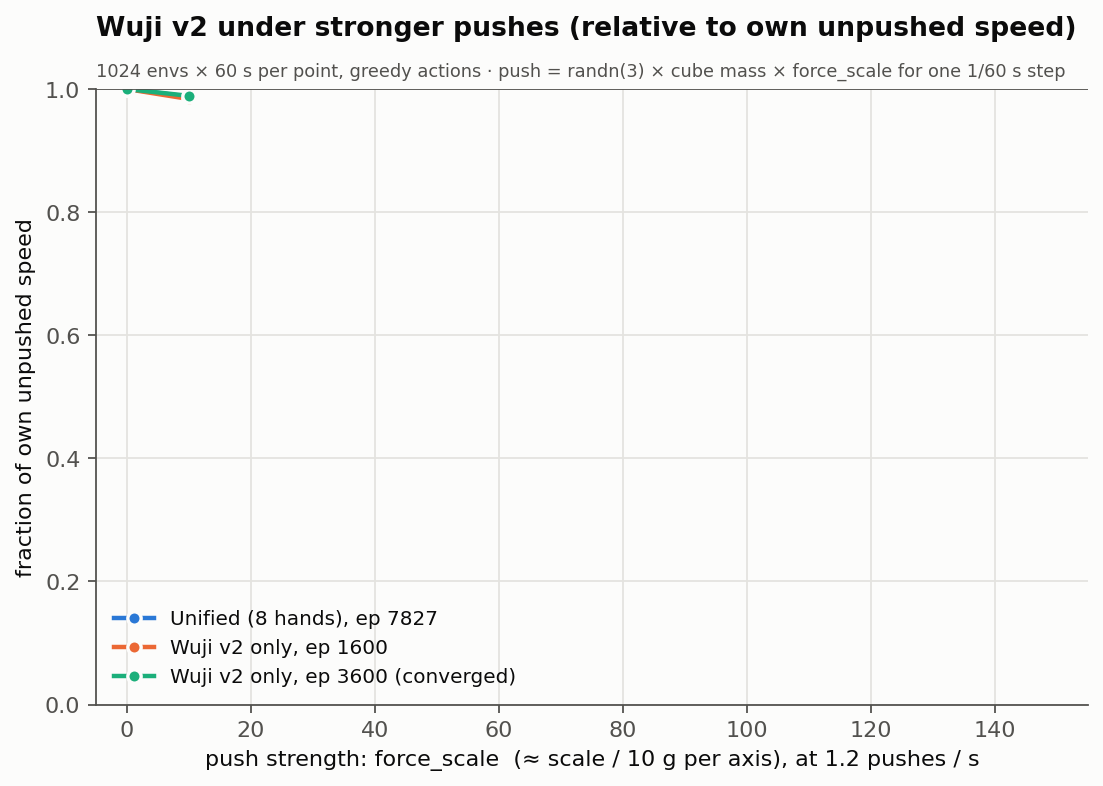
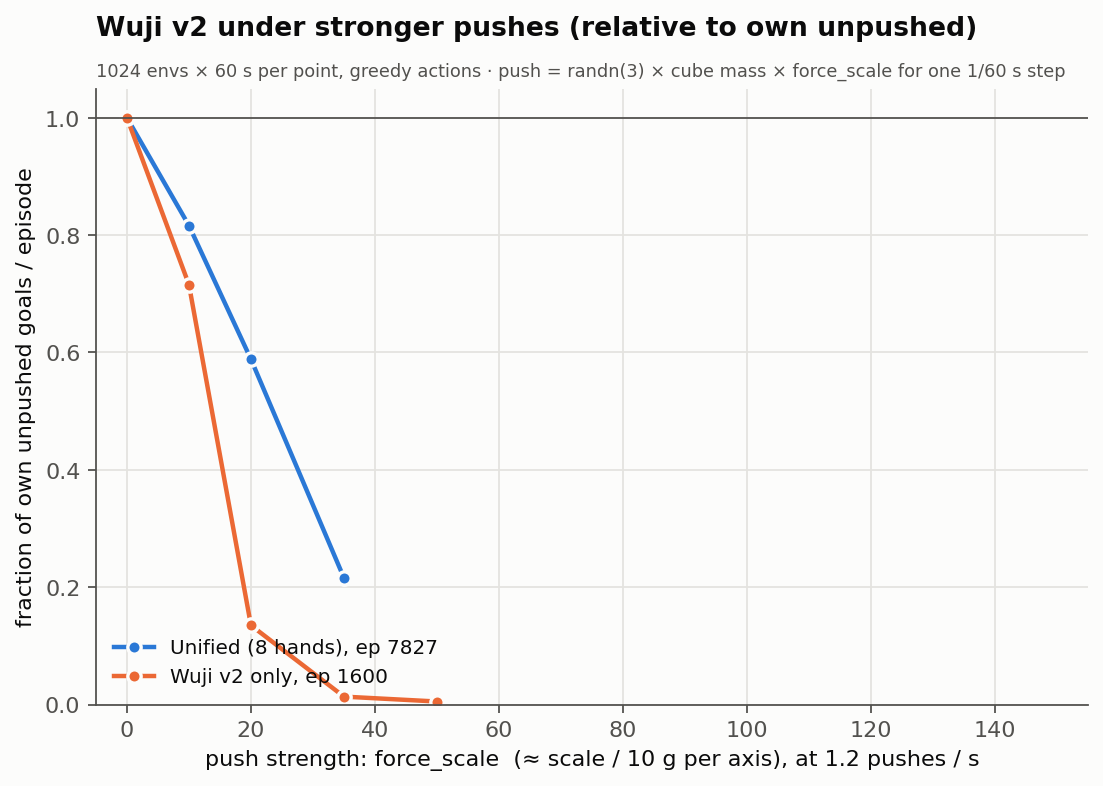
Push sweeps in the training metric: eval_niches --max-goals (50) with goals per episode over each env's first episode; capped sweeps (240 s/point, strength at 0.03/step) for unified ep 7827 / final and Wuji-only ep 1600 / 3600; plots per comparison
Claude-Session: https://claude.ai/code/session_01VEjfLD7vkNCwPYPC2HsL71

diff --git a/experiments/01oct_embodiment_niches/eval_niches.py b/experiments/01oct_embodiment_niches/eval_niches.py
@@ -106,6 +106,9 @@ def main() -> None:
     ap.add_argument("--override", action="append", default=[],
                     help="extra env setting applied after the condition, dotted.path=python_literal "
                          "(e.g. domain_randomization.force_scale=80.0); repeatable")
+    ap.add_argument("--max-goals", type=int, default=0,
+                    help="end an episode at this many goals, as training does (50); 0 = uncapped. With a cap the "
+                         "result carries goals_per_episode, the training metric: goals per COMPLETED episode")
     ap.add_argument("--out", required=True)
     ap.add_argument("--device", default="cuda:0")
     args = ap.parse_args()
@@ -161,7 +164,7 @@ def main() -> None:
         env_cfg.from_dict(env_d)
         env_cfg.scene.num_envs = args.num_envs
         env_cfg.seed = args.seed
-        env_cfg.termination.max_consecutive_successes = 0
+        env_cfg.termination.max_consecutive_successes = args.max_goals
         for path, val in CONDITIONS[args.condition][1]:
             if isinstance(val, str) and val.startswith("x"):        # relative to the trained value
                 *head, leaf = path.split(".")
@@ -221,6 +224,10 @@ def main() -> None:
         prev_qd = inner.robot.data.joint_vel[:, jid].clone()
         prev_tgt = inner._cur_targets[:, jid].clone()
         n_succ = n_fall = n_tout = n_far = 0
+        ep_done = ep_goals = n_capped = 0           # completed episodes, their goals, how many hit the cap
+        # Each env's FIRST episode: every env starts at reset together, so this sample is not biased toward
+        # short episodes the way "every episode that ended inside the window" is.
+        first_goals = torch.full((N,), -1, dtype=torch.long, device=dev)
         t0 = time.time()
         for k in range(steps):
             with torch.no_grad():
@@ -257,7 +264,8 @@ def main() -> None:
             succ = inner._is_success.bool()
             r = inner._termination_reasons
             fall, tout, far = r["fall"].bool(), r["timeout"].bool(), r["hand_far"].bool()
-            ended = fall | tout | far
+            capped = r["max_successes"].bool()
+            ended = fall | tout | far | capped
             th_now = angle_now().double()
             if succ.any():
                 i = succ.nonzero().squeeze(-1)
@@ -274,6 +282,11 @@ def main() -> None:
                 i = ended.nonzero().squeeze(-1)
                 # Only a drop is the failure; a timeout or hand_far ends the episode without one.
                 streak_rec.append(torch.stack([streak[i], fall[i].long()], -1).cpu())
+                ep_done += int(i.numel())
+                fresh = i[first_goals[i] < 0]
+                first_goals[fresh] = streak[fresh]
+                ep_goals += int(streak[i].sum())
+                n_capped += int(capped[i].sum())
                 streak = torch.where(ended, torch.zeros_like(streak), streak)
             new = succ | ended
             if new.any():
@@ -314,6 +327,14 @@ def main() -> None:
             "drops_per_min": 60.0 * n_fall / env_s,
             "timeouts_per_min": 60.0 * n_tout / env_s,
             "goals_per_drop": n_succ / max(n_fall, 1),
+            # The training metric under --max-goals: goals per episode, over episodes that ENDED inside the run
+            # (drop, 10 s without a goal, or the cap). Episodes still running at the end are not counted.
+            "max_goals": args.max_goals,
+            "goals_per_episode": ep_goals / ep_done if ep_done else float("nan"),
+            "episodes_completed": ep_done, "episodes_capped": n_capped,
+            "goals_per_episode_first": (float(first_goals[first_goals >= 0].double().mean())
+                                        if (first_goals >= 0).any() else float("nan")),
+            "first_episode_unfinished_frac": float((first_goals < 0).double().mean()),
             "counts": {"goals": n_succ, "drops": n_fall, "timeouts": n_tout, "hand_far": n_far},
             "time_per_goal_s": _summ(mid[:, 0]),
             "first_goal_after_reset_s": _summ(first[:, 0]),

diff --git a/experiments/02oct_ood_evals/analysis/plot_push_sweep.py b/experiments/02oct_ood_evals/analysis/plot_push_sweep.py
@@ -21,10 +21,11 @@ HERE = pathlib.Path(__file__).resolve().parent.parent
 R = HERE / "results/push_sweep"
 OUT = HERE / "plots/push_sweep"
 SURFACE, INK, INK2, GRID = "#fcfcfb", "#0b0b0b", "#52514e", "#e4e3df"
-POLICIES = [("Unified (8 hands), ep 7827", "unified_ep_7827", "#2a78d6"),
-            ("Wuji v2 only, ep 1600", "wuji_only_ep_1600", "#eb6834"),
-            ("Wuji v2 only, ep 3600 (converged)", "wuji_only_ep_3600", "#1baf7a"),
-            ("Unified (8 hands), final ep 10000", "unified_final", "#eda100")]
+# The latest unified policy against the Wuji-only checkpoint nearest it in skill. The final unified checkpoint
+# replaces ep 7827 as soon as its sweep has results.
+_LATEST = ("Unified (8 hands), final ep 10000", "unified_final") if (R / "unified_final").exists() and any(
+    (R / "unified_final").iterdir()) else ("Unified (8 hands), ep 7827", "unified_ep_7827")
+POLICIES = [(*_LATEST, "#2a78d6"), ("Wuji v2 only, ep 1600", "wuji_only_ep_1600", "#eb6834")]
 SCALES = [0, 10, 20, 35, 50, 75, 100, 150]
 PROBS = [0.005, 0.01, 0.02, 0.05, 0.1, 0.2]
 AXES = {
@@ -35,9 +36,16 @@ AXES = {
 }
 
 
+def goals_per_episode(r: dict) -> float:
+    """Goals per episode from an eval: goals/min over episodes/min. With max_consecutive_successes off, an
+    episode ends only in a drop or a timeout."""
+    eps = r["drops_per_min"] + r["timeouts_per_min"]
+    return r["goals_per_min"] / eps if eps else float("nan")
+
+
 def gpm(label, axis, v):
     f = R / label / f"{axis}_{v}.json"
-    return json.loads(f.read_text())["goals_per_min"] if f.exists() else np.nan
+    return goals_per_episode(json.loads(f.read_text())) if f.exists() else np.nan
 
 
 def plot(name, relative):
@@ -69,9 +77,9 @@ def plot(name, relative):
         ax.spines[s].set_color(INK2)
     ax.tick_params(colors=INK2)
     ax.set_xlabel(xlabel, color=INK, fontsize=10)
-    ax.set_ylabel("fraction of own unpushed speed" if relative else "goals / min", color=INK, fontsize=10)
+    ax.set_ylabel("fraction of own unpushed goals / episode" if relative else "goals / episode", color=INK, fontsize=10)
     ax.legend(frameon=False, fontsize=9, labelcolor=INK, loc="lower left")
-    ax.set_title(title + (" (relative to own unpushed speed)" if relative else ""), loc="left", fontsize=12,
+    ax.set_title(title + (" (relative to own unpushed)" if relative else ""), loc="left", fontsize=12,
                  fontweight="bold", color=INK, pad=24)
     ax.text(0, 1.02, "1024 envs × 60 s per point, greedy actions · push = randn(3) × cube mass × force_scale "
             "for one 1/60 s step", transform=ax.transAxes, fontsize=8, color=INK2)
@@ -87,8 +95,8 @@ def main():
         for rel in (False, True):
             print("->", plot(name, rel))
     for txt, label, _ in POLICIES:
-        print(f"  {txt:36s} scale: " + " ".join(f"{gpm(label, 'scale', v):.1f}" for v in SCALES)
-              + " | prob: " + " ".join(f"{gpm(label, 'prob', v):.1f}" for v in PROBS))
+        print(f"  {txt:36s} scale: " + " ".join(f"{gpm(label, 'scale', v):.2f}" for v in SCALES)
+              + " | prob: " + " ".join(f"{gpm(label, 'prob', v):.2f}" for v in PROBS))
 
 
 if __name__ == "__main__":

diff --git a/experiments/02oct_ood_evals/analysis/plot_wuji_compare.py b/experiments/02oct_ood_evals/analysis/plot_wuji_compare.py
@@ -26,11 +26,18 @@ CONDS = [("nominal", "nominal\n(train)"), ("cube40", "cube\n40 mm"), ("cube55", 
          ("slippery", "slippery\n(×0.5 μ)"), ("push", "push"), ("push_hard", "hard\npush")]
 
 
+def goals_per_episode(r: dict) -> float:
+    """Goals per episode from an eval: goals/min over episodes/min. With max_consecutive_successes off, an
+    episode ends only in a drop or a timeout."""
+    eps = r["drops_per_min"] + r["timeouts_per_min"]
+    return r["goals_per_min"] / eps if eps else float("nan")
+
+
 def load(d):
     out = {}
     for c, _ in CONDS:
         f = RES / d / f"wuji2__{c}.json"
-        out[c] = json.loads(f.read_text())["goals_per_min"] if f.exists() else np.nan
+        out[c] = goals_per_episode(json.loads(f.read_text())) if f.exists() else np.nan
     return out
 
 
@@ -53,7 +60,7 @@ def main():
             ax.bar(xs, y, w * 0.92, color=SERIES[i], label=label, edgecolor=SURFACE, linewidth=1.5, zorder=3)
             for xi, yi in zip(xs, y):
                 if np.isfinite(yi):
-                    ax.text(xi, yi, f"{yi:.2f}" if rel else f"{yi:.0f}", ha="center", va="bottom",
+                    ax.text(xi, yi, f"{yi:.2f}" if rel else f"{yi:.1f}", ha="center", va="bottom",
                             fontsize=7.5, color=INK2)
                 else:
                     ax.text(xi, 0, "pending", ha="center", va="bottom", fontsize=7, color=INK2, rotation=90)
@@ -68,12 +75,12 @@ def main():
         ax.text(x[1:].mean(), top * 1.02, "out-of-distribution", ha="center", va="bottom", fontsize=9, color=INK)
         if rel:
             ax.axhline(1.0, color=INK2, linewidth=0.8)
-        ax.set_ylabel("fraction of own nominal" if rel else "goals / min", color=INK, fontsize=10)
+        ax.set_ylabel("fraction of own nominal goals / episode" if rel else "goals / episode", color=INK, fontsize=10)
         ax.set_xticks(x, [lab for _, lab in CONDS], fontsize=9, color=INK)
         ax.legend(frameon=False, fontsize=9, ncol=len(data), loc="lower left", bbox_to_anchor=(0.0, 1.09),
                   labelcolor=INK)
         ax.set_title("Wuji v2: unified vs Wuji-only policy" + (", relative to own nominal (1.0 = no loss)"
-                     if rel else ", goals per minute"), loc="left", fontsize=12, fontweight="bold", color=INK,
+                     if rel else ", goals per episode"), loc="left", fontsize=12, fontweight="bold", color=INK,
                      pad=48)
         fig.text(0.125, -0.02, "1024 envs × 60 s per condition, greedy actions", fontsize=8, color=INK2)
         p = OUT / f"id_vs_ood_{'relative' if rel else 'goals'}.png"
@@ -81,7 +88,7 @@ def main():
         plt.close(fig)
         print("->", p)
     for label, v in data:
-        print(f"  {label:32s} " + " ".join(f"{c} {v[c]:.1f}" for c, _ in CONDS))
+        print(f"  {label:32s} " + " ".join(f"{c} {v[c]:.2f}" for c, _ in CONDS))
 
 
 if __name__ == "__main__":
